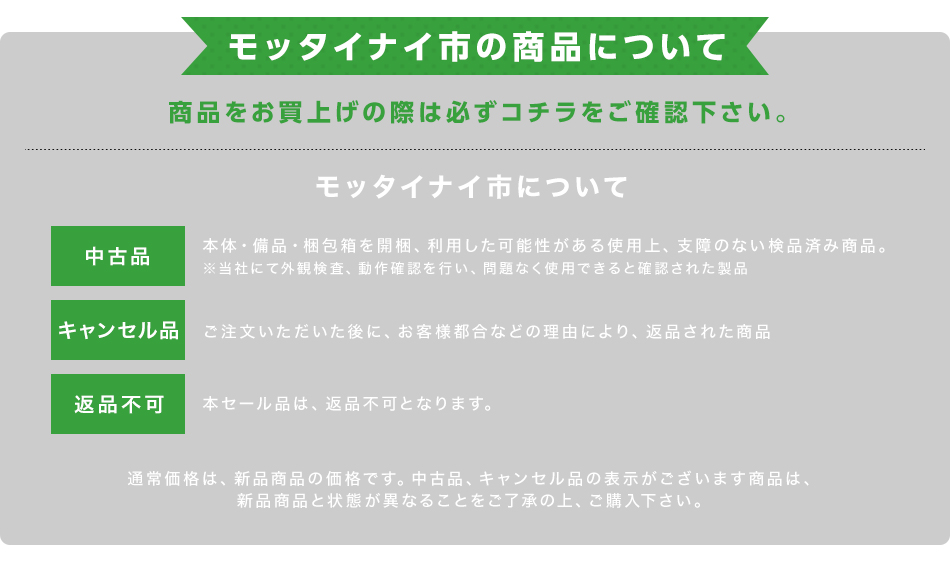
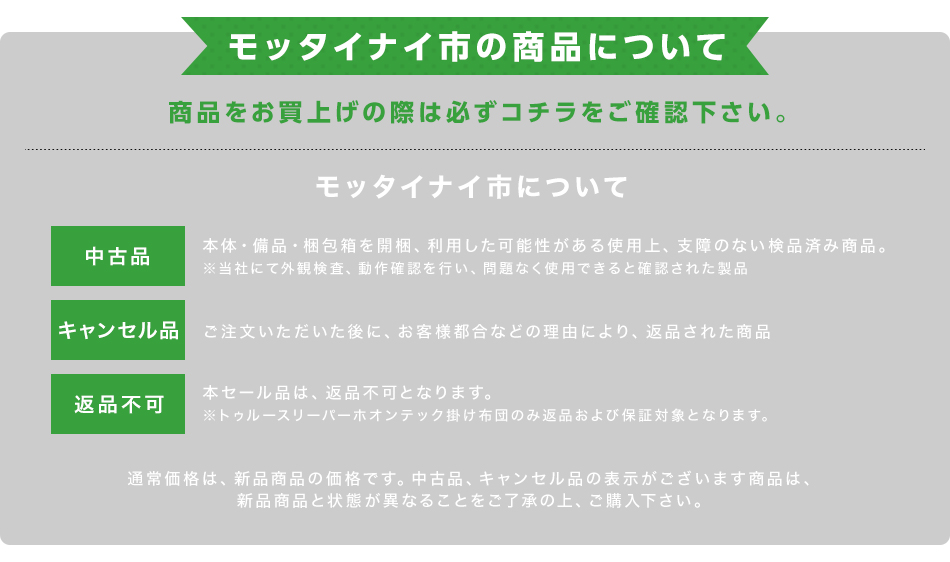
images_Correction

Changed region(s): [[0.2137, 0.6655, 0.7937, 0.7562]]

diff --git a/used18/sp.html b/used18/sp.html
@@ -145,7 +145,7 @@ if (!(navigator.userAgent.indexOf('iPhone') > 0 || navigator.userAgent.indexOf('
 <li id="sim" class="item_id">
 <img src="img/sp/sim_title_sp.jpg" style="width:92%;margin:4% auto 0;position: relative;">
 <ul class="slider single-item" style="margin:0 0 10px;">
-<li><a href="img/sp/sim_2.jpg" rel="lightbox[sim-group]"><img src="img/sp/sim_2.jpg"></a></li>
+<li><a href="img/sp/sim.jpg" rel="lightbox[sim-group]"><img src="img/sp/sim.jpg"></a></li>
 <li><a href="https://image.rakuten.co.jp/shopjapan/cabinet/sim/s3.jpg" rel="lightbox[sim-group]"><img src="https://image.rakuten.co.jp/shopjapan/cabinet/sim/s3.jpg" style="width: 69%;margin: 0 auto;"></a></li>
 <li><a href="https://image.rakuten.co.jp/shopjapan/cabinet/sim/s4.jpg" rel="lightbox[sim-group]"><img src="https://image.rakuten.co.jp/shopjapan/cabinet/sim/s4.jpg" style="width: 69%;margin: 0 auto;"></a></li>
 <li><a href="https://image.rakuten.co.jp/shopjapan/cabinet/sim/s5.jpg" rel="lightbox[sim-group]"><img src="https://image.rakuten.co.jp/shopjapan/cabinet/sim/s5.jpg" style="width: 69%;margin: 0 auto;"></a></li>
@@ -386,7 +386,7 @@ if (!(navigator.userAgent.indexOf('iPhone') > 0 || navigator.userAgent.indexOf('
 <li id="crff" class="item_id">
 <img src="img/sp/crff_title_sp.jpg" style="width:92%;margin:4% auto 0;position: relative;">
 <ul class="slider single-item" style="margin:0 0 10px;">
-<li><a href="img/sp/crff.jpg" rel="lightbox[crff-group]"><img src="img/sp/crff.jpg"></a></li>
+<li><a href="img/sp/crff1.jpg" rel="lightbox[crff-group]"><img src="img/sp/crff1.jpg"></a></li>
 <li><a href="https://image.rakuten.co.jp/shopjapan/cabinet/crff/s1/tmb_03.jpg" rel="lightbox[crff-group]"><img src="https://image.rakuten.co.jp/shopjapan/cabinet/crff/s1/tmb_03.jpg" style="width: 69%;margin: 0 auto;"></a></li>
 <li><a href="https://image.rakuten.co.jp/shopjapan/cabinet/crff/s1/crff_fp_s3_0721.jpg" rel="lightbox[crff-group]"><img src="https://image.rakuten.co.jp/shopjapan/cabinet/crff/s1/crff_fp_s3_0721.jpg" style="width: 69%;margin: 0 auto;"></a></li>
 </ul>
@@ -436,7 +436,8 @@ if (!(navigator.userAgent.indexOf('iPhone') > 0 || navigator.userAgent.indexOf('
 ご注文頂いた後に、お客様都合などの理由により、返品された商品。</p>
 
 <p><span>＜返品不可＞</span>
-本セール品は、返品不可となります。</p>
+本セール品は、返品不可となります。<br>
+<small>※トゥルースリーパーホオンテック掛け布団のみ返品および保証対象となります</small></p>
 <br>
 
 <p>通常価格は、新品商品の価格です。キャンセル品、中古品の表示がございます商品は、新品商品と状態が異なることをご了承の上、ご購入ください</p>

diff --git a/used18/trht.html b/used18/trht.html
@@ -11,7 +11,7 @@ $(function(){
         $('#main_img img').attr('src', $(this).attr('src'));
     });
     $('#thumb_area img').mouseout(function(){
-        $('#main_img img').attr('src', 'https://image.rakuten.co.jp/shopjapan/cabinet/trhf/trht_s_03.jpg');
+        $('#main_img img').attr('src', 'img/trht_s1_03.jpg');
 		
     });
 });
@@ -24,7 +24,7 @@ $(function(){
 <body>
 
 <div id="main_img" class="main_img">
-<img src="https://image.rakuten.co.jp/shopjapan/cabinet/trhf/trht_s_03.jpg">
+<img src="img/trht_s1_03.jpg">
 </div>
 
 <ul id="thumb_area" class="thumb_area">

diff --git a/used18/crff.html b/used18/crff.html
@@ -11,7 +11,7 @@ $(function(){
         $('#main_img img').attr('src', $(this).attr('src'));
     });
     $('#thumb_area img').mouseout(function(){
-        $('#main_img img').attr('src', 'https://image.rakuten.co.jp/shopjapan/cabinet/share/used/crff1.jpg');
+        $('#main_img img').attr('src', 'img/crff.jpg');
 		
     });
 });
@@ -24,7 +24,7 @@ $(function(){
 <body>
 
 <div id="main_img" class="main_img">
-<img src="https://image.rakuten.co.jp/shopjapan/cabinet/share/used/crff1.jpg">
+<img src="img/crff.jpg">
 </div>
 
 <ul id="thumb_area" class="thumb_area">

diff --git a/used18/sim.html b/used18/sim.html
@@ -11,7 +11,7 @@ $(function(){
         $('#main_img img').attr('src', $(this).attr('src'));
     });
     $('#thumb_area img').mouseout(function(){
-        $('#main_img img').attr('src', 'https://image.rakuten.co.jp/shopjapan/cabinet/sim/rn_tan1.jpg');
+        $('#main_img img').attr('src', 'img/sim.jpg');
 		
     });
 });
@@ -24,7 +24,7 @@ $(function(){
 <body>
 
 <div id="main_img" class="main_img">
-<img src="https://image.rakuten.co.jp/shopjapan/cabinet/sim/rn_tan1.jpg">
+<img src="img/sim.jpg">
 </div>
 
 <ul id="thumb_area" class="thumb_area">
